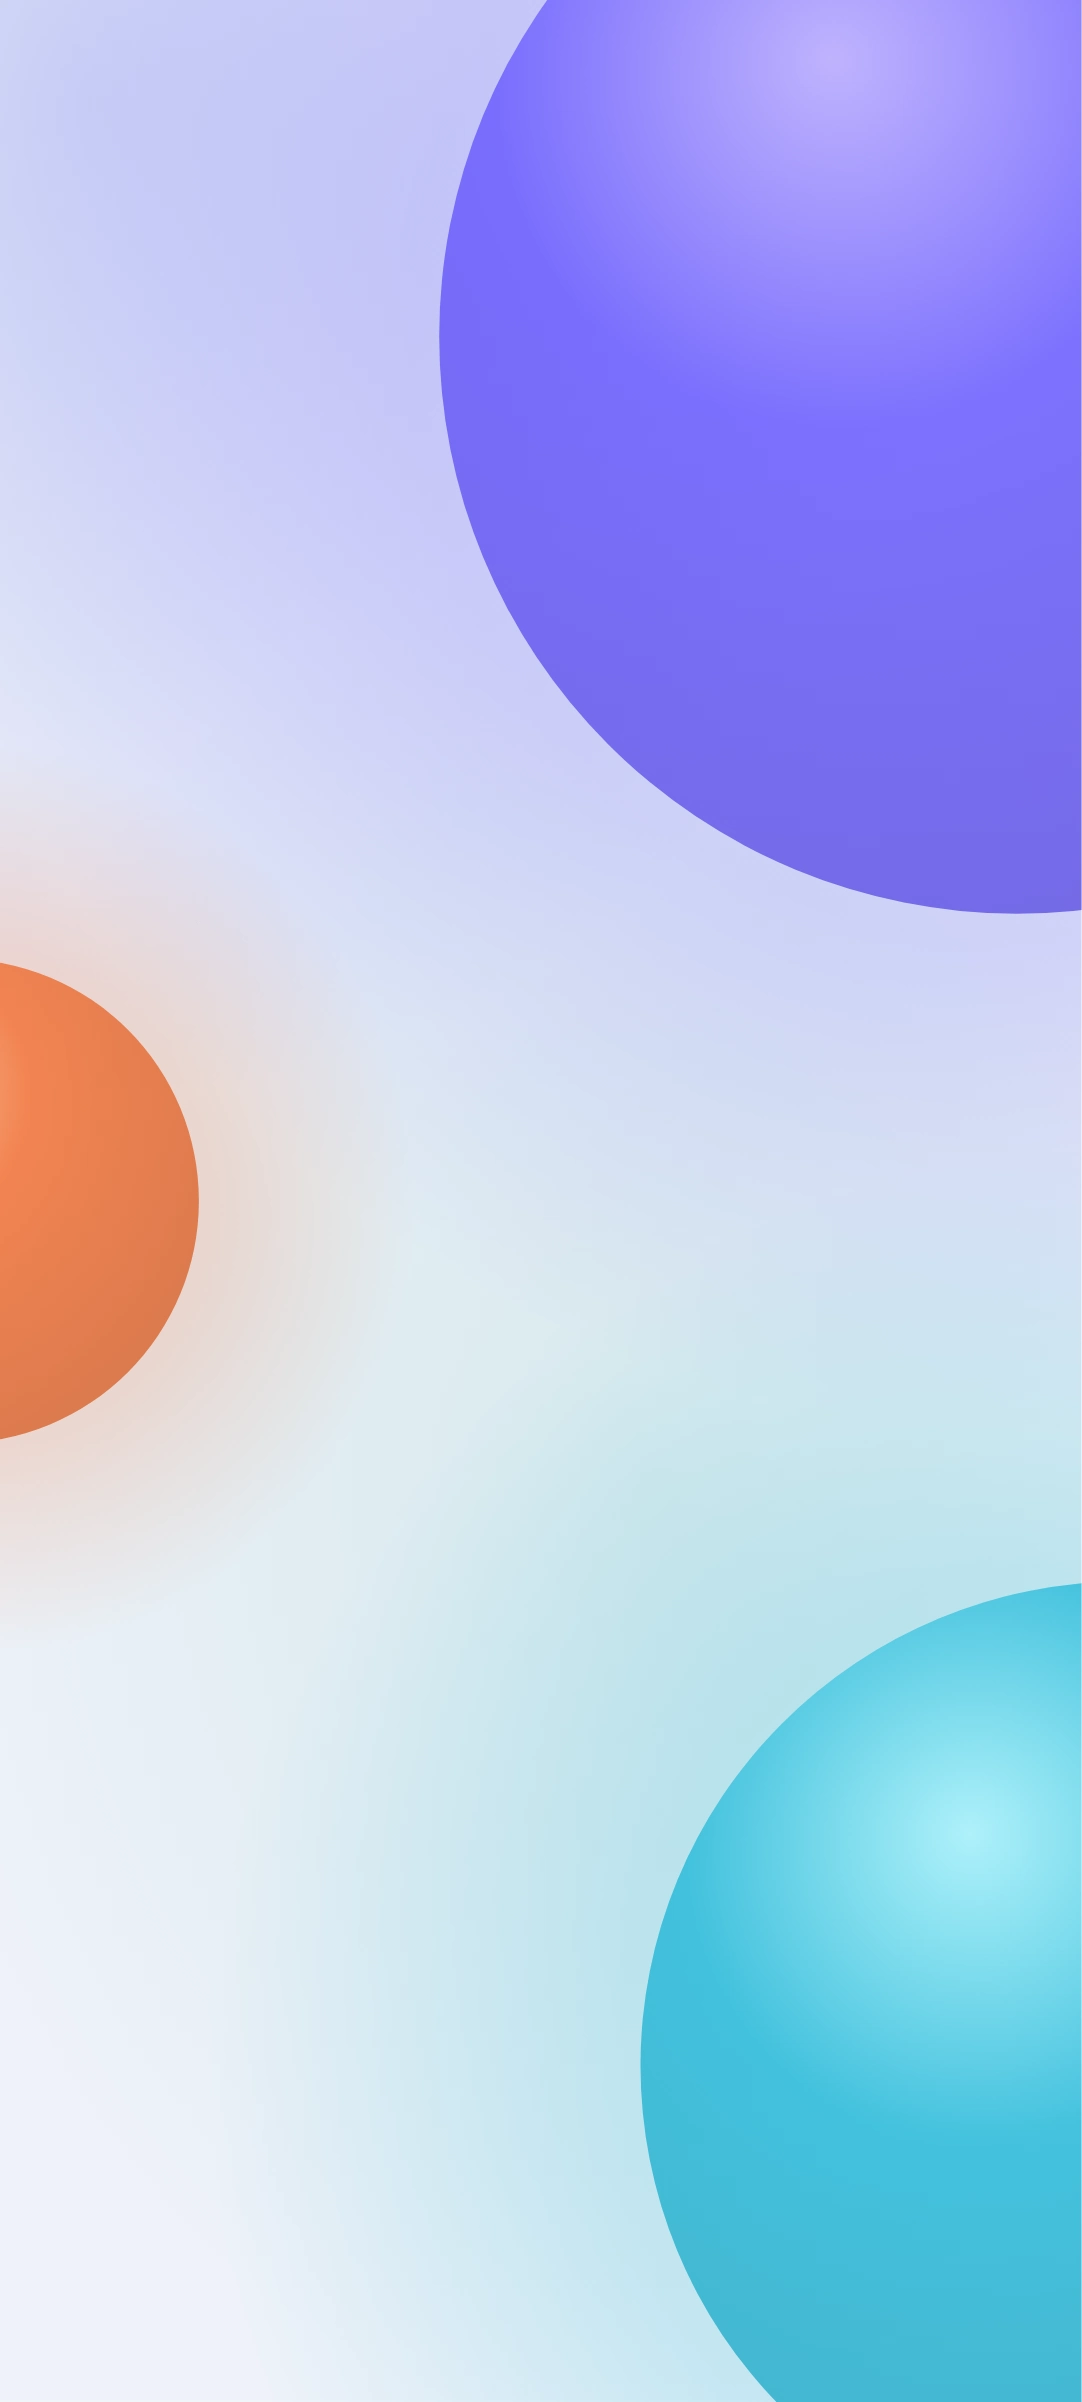
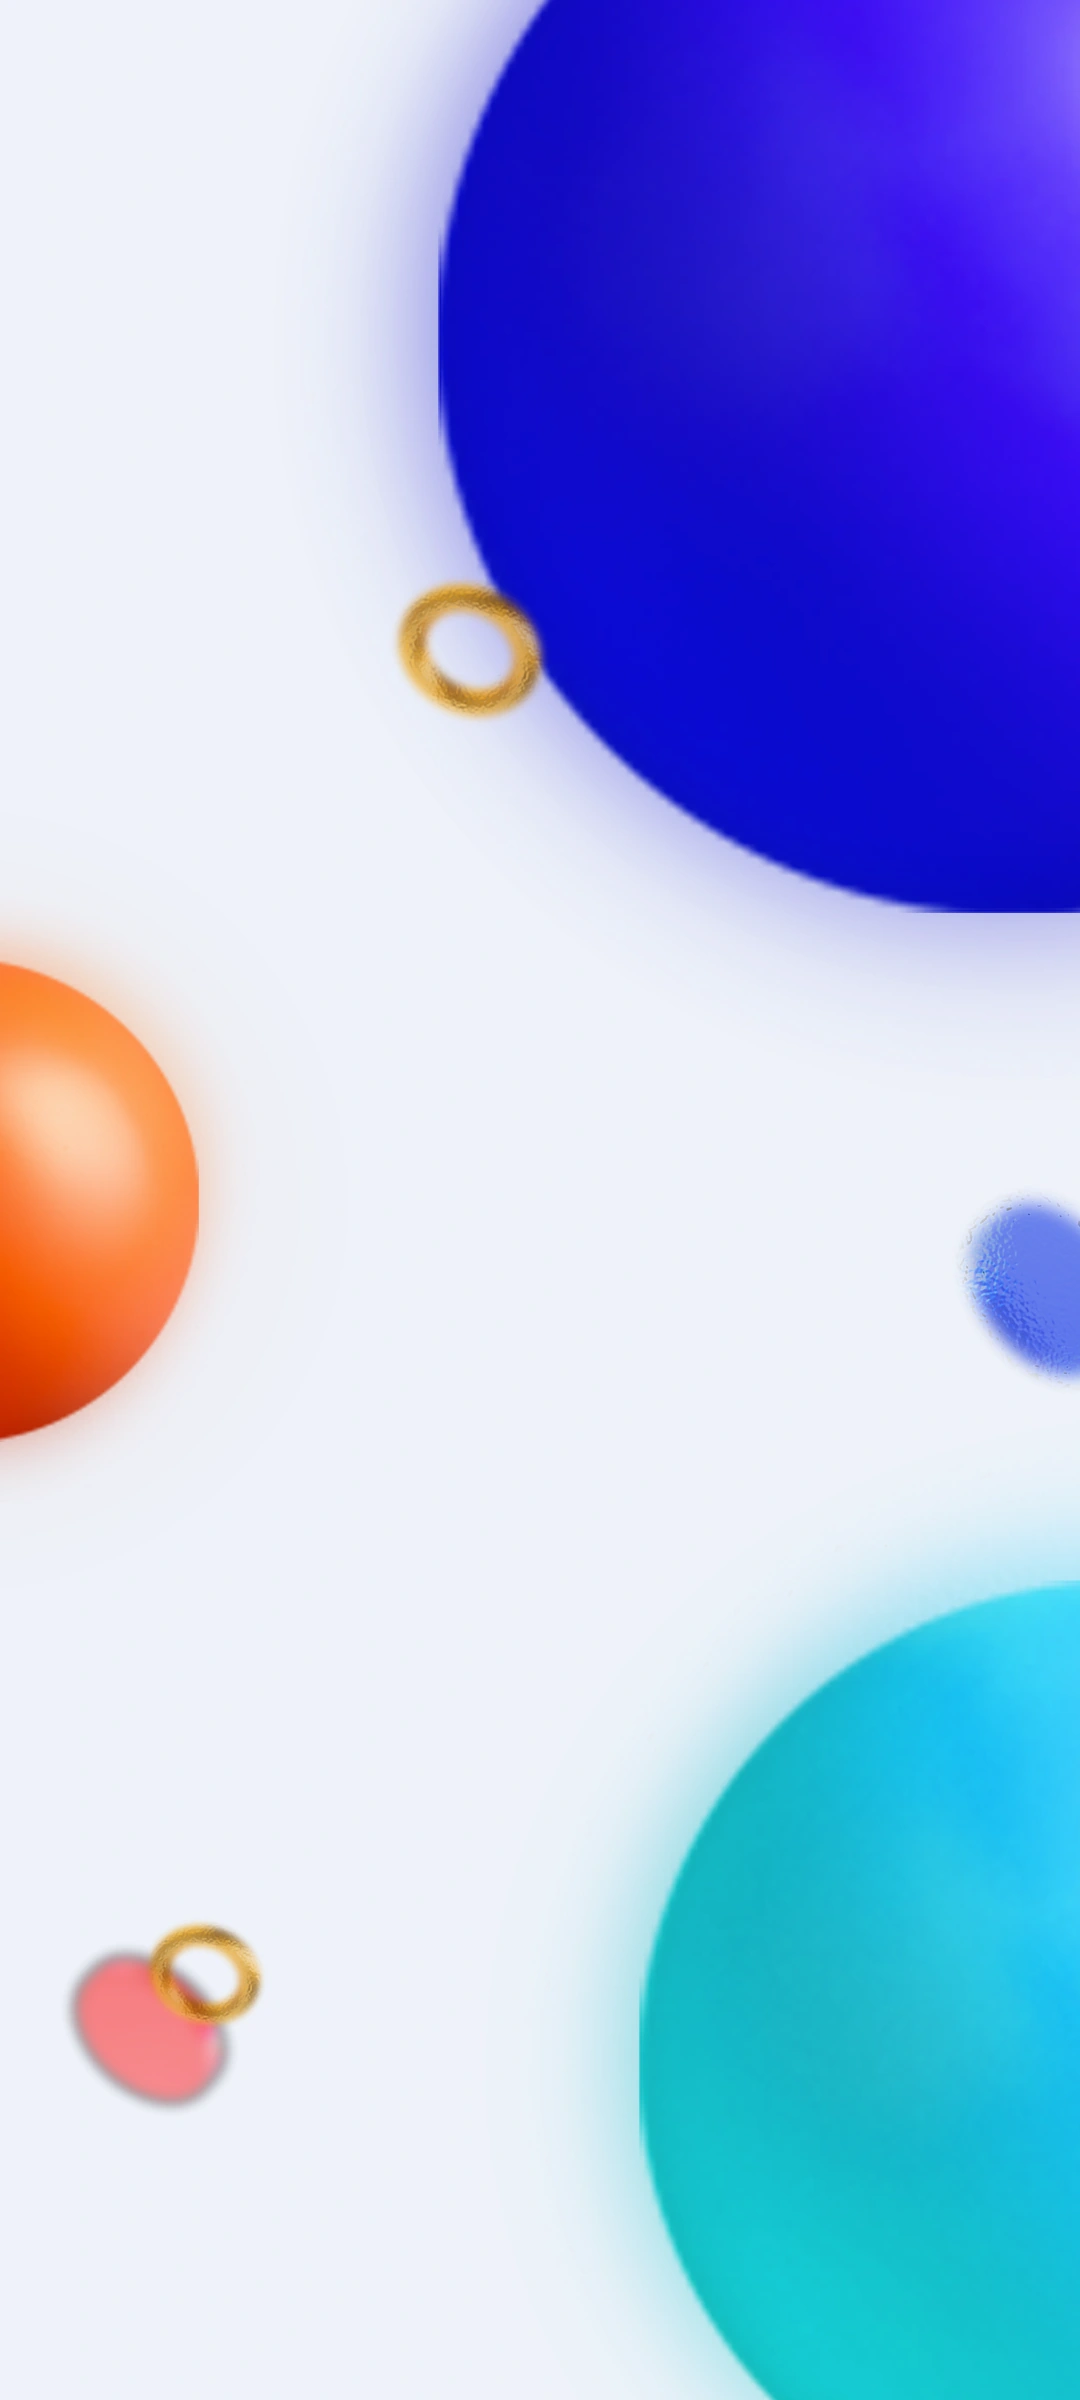
3D room from the supplied artwork; no shadow box inside glass cards
- The background is composed from the 3D objects in the supplied PSD, in
  the same layout as before: a violet sphere high on the right, a warm one
  at the left edge, cyan low on the right (the glossy sphere recoloured for
  violet and cyan), with the gold rings and discs as soft, out-of-focus
  accents so they never sit sharp behind text
- The room image is sized to the window explicitly; the web preview drew
  it at its pixel size and showed only its top-left corner
- Android elevation only on solid panes: through see-through glass the
  shadow showed as a dark box inside every card (and inside the + button)

Claude-Session: https://claude.ai/code/session_01Y6Cgg7vRWMng11AoQV1Yea

diff --git a/src/components/glass/Aurora.tsx b/src/components/glass/Aurora.tsx
@@ -1,5 +1,5 @@
 import React, { createContext, RefObject } from 'react';
-import { Image, StyleSheet, View } from 'react-native';
+import { Image, StyleSheet, useWindowDimensions, View } from 'react-native';
 import { useTheme } from '../../theme/ThemeContext';
 
 /**
@@ -29,11 +29,14 @@ const ROOM = {
  */
 export function Aurora() {
   const { theme } = useTheme();
+  // Sized to the window outright: some hosts give an image in an absolutely
+  // filled box its own pixel size instead of the box's.
+  const { width, height } = useWindowDimensions();
   return (
     <View style={[StyleSheet.absoluteFill, { backgroundColor: theme.bg }]} pointerEvents="none">
       <Image
         source={theme.mode === 'dark' ? ROOM.dark : ROOM.light}
-        style={StyleSheet.absoluteFill}
+        style={{ position: 'absolute', top: 0, left: 0, width, height }}
         resizeMode="cover"
         fadeDuration={0}
       />

diff --git a/src/components/glass/GlassSurface.tsx b/src/components/glass/GlassSurface.tsx
@@ -143,7 +143,10 @@ export function GlassSurface({
           shadowOpacity: dark ? 0.5 : 1,
           shadowRadius: d.shadowRadius,
           shadowOffset: { width: 0, height: d.shadowY },
-          elevation: d.elevation,
+          // Android casts an elevation shadow under the whole pane, and
+          // through see-through glass it shows as a dark box inside the card.
+          // Only solid panes get one.
+          elevation: solid ? d.elevation : 0,
         },
         style,
       ]}

diff --git a/src/components/IconBadge.tsx b/src/components/IconBadge.tsx
@@ -156,7 +156,7 @@ export function solidGlyph(icon: IconName): IconName {
 
 const styles = StyleSheet.create({
   orb: { position: 'absolute', shadowOffset: { width: 0, height: 2 }, elevation: 3 },
-  pane: { position: 'absolute', alignItems: 'center', justifyContent: 'center', shadowColor: '#000', elevation: 4 },
+  pane: { position: 'absolute', alignItems: 'center', justifyContent: 'center', shadowColor: '#000' },
   clip: { overflow: 'hidden' },
   rim: {
     borderWidth: 1,

diff --git a/src/components/QuickAddFab.tsx b/src/components/QuickAddFab.tsx
@@ -180,7 +180,8 @@ const styles = StyleSheet.create({
     shadowOffset: { width: 0, height: 8 },
     shadowOpacity: 0.45,
     shadowRadius: 16,
-    elevation: 10,
+    // No Android elevation: the button is tinted glass, and the shadow would
+    // show through it as a dark shape inside.
   },
   fab: {
     width: 62,
